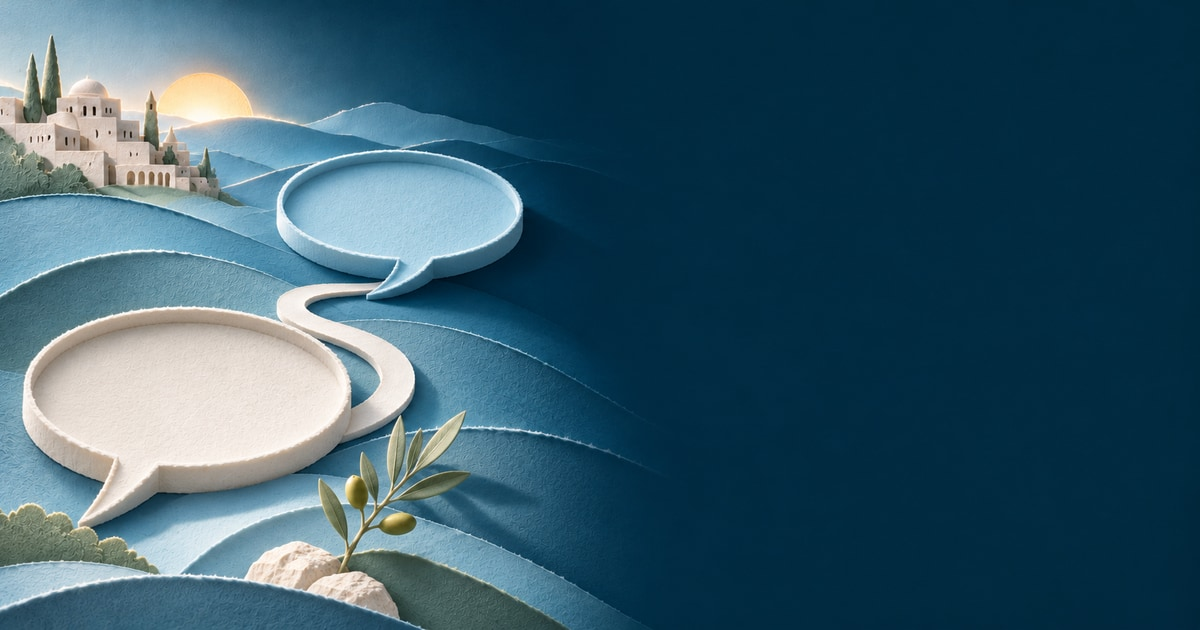
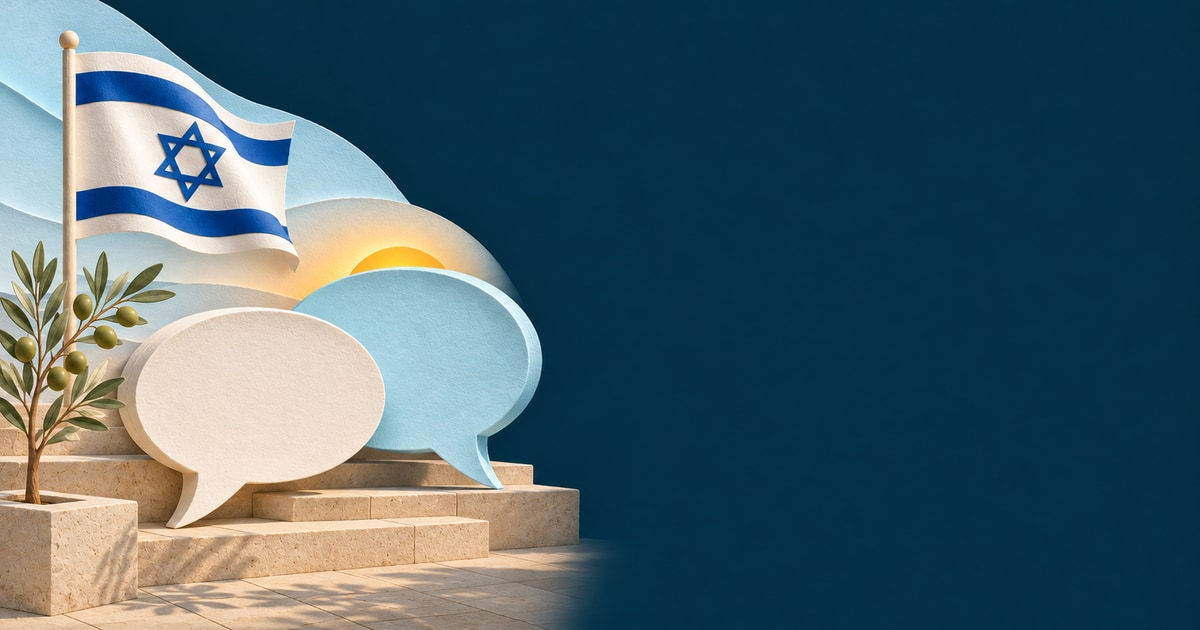
feat: make social preview artwork distinctly Israeli

diff --git a/lib/seo.ts b/lib/seo.ts
@@ -18,7 +18,7 @@ export function buildPageMetadata(
     ? process.env.VERCEL_BRANCH_URL || process.env.VERCEL_URL
     : undefined;
   const socialOrigin = previewHost ? `https://${previewHost}` : SITE_ORIGIN;
-  const imageUrl = `${socialOrigin}/og?locale=${locale}&route=${route}&v=2`;
+  const imageUrl = `${socialOrigin}/og?locale=${locale}&route=${route}&v=3`;
   const imageAlt = `${dict.routeLabels[route]} | ${dict.brand.name}`;
 
   return {

diff --git a/assets/og/README.md b/assets/og/README.md
@@ -1,106 +1,112 @@
 # Open Graph artwork
 
-Twelve page-specific illustrations generated with the built-in image generation tool on 2026-11-04. Each final JPEG is 1200 × 630, optimized for the server-rendered covers at `/og?locale=he|en&route=<route>&v=2`. The original brand mark from `public/images/logo-mark.png` and the text are added by `app/og/route.tsx`; neither is redrawn by the image model. Hebrew and English copy lives in `lib/og-copy.ts`.
+Version 3: twelve distinct illustrations generated with the built-in image-generation tool on 2026-11-04. This revision uses recognizable Israeli flags, Negev and Galilee landscapes, local plants, modern Tel Aviv architecture and Jerusalem limestone. The generic historic-village backdrop from version 2 has been replaced throughout the set.
 
-The Regular and Bold Heebo faces are static instances of the repository's existing `app/(staff)/fonts/Heebo-variable.ttf` at weights 400 and 700. Its original OFL license is included. Static faces avoid variable-font parsing differences in the social image renderer.
+Each optimized JPEG is 1200 × 630. `app/og/route.tsx` adds the unchanged original logo from `public/images/logo-mark.png` and the Heebo typography. No generated logo or AI lettering is used. Hebrew and English copy lives in `lib/og-copy.ts`, producing 24 localized covers.
+
+Social-image URLs include `&v=3` so social crawlers fetch the revised artwork. Preview metadata uses the branch URL; production uses the official domain. SEO canonicals and language alternates stay on the official domain.
+
+The Regular and Bold Heebo faces are static instances of the existing `app/(staff)/fonts/Heebo-variable.ttf` at weights 400 and 700, with its original OFL license included.
 
 ## Prompt set
 
-Shared generation prompt (followed by the page-specific scene below):
+Shared prompt, followed by the page-specific scene:
 
 ```text
 Use case: ads-marketing.
-Asset type: text-free editorial artwork for a 1200x630 Open Graph cover, landscape 1.905:1.
-Primary request: a beautiful premium art-directed cover illustration for Service with Meaning, an Israeli nonprofit helping young women find values, identity, community and meaningful service.
-Style/medium: sophisticated tactile layered paper sculpture and matte ceramic architectural miniature, photographed as a real museum-quality set. Precise cut edges, rich physical depth, tiny paper fibers, soft directional studio light and delicate shadows, elegant atmospheric perspective. Quiet, poetic, optimistic, contemporary Israeli visual identity. Professional visual campaign, not stock clip art.
-Color palette: deep midnight petrol #102d40 background, stone-white #f6f5ee, icy sky blue #b8e5f5, muted sage green #98baa8 and a tiny warm pale gold sun. Blue and white should dominate.
-Composition: landscape 1.905:1. Sculptural subject and detail concentrated in LEFT 50 percent; RIGHT 45 percent is uninterrupted very dark petrol negative space for a large title to be added later. Subject occupies almost full height on the left with breathing space above and below. Rich shadows fade seamlessly into the dark right. Full bleed, no border, no frame, no card UI.
-Constraints: absolutely no text, no lettering, no numbers, no logos, no watermark, no human figures, no military equipment. No glossy plastic, no cartoon aesthetic, no neon, no floating interface elements, no generic gradient blobs. Do not create a collage or contact sheet. Generate ONE finished landscape artwork.
+Asset type: text-free editorial background for a 1200x630 Open Graph cover, landscape 1.905:1.
+Primary request: sophisticated, unmistakably contemporary ISRAELI visual identity for Service with Meaning, an Israeli nonprofit preparing young women for meaningful service, values, belonging and community.
+Style/medium: premium tactile layered paper sculpture and matte ceramic miniatures photographed as a real art-directed studio set. Precise cut paper edges, physical depth, restrained paper fibers, graceful dimensional curves, soft directional light, delicate realistic shadows. Calm, hopeful, designed for an Israeli educational nonprofit.
+Color palette: midnight petrol #102d40, stone-white #f6f5ee, ice blue #b8e5f5, Israeli flag royal blue #1c61ad, muted sage olive green #98baa8 and a little warm sunrise gold.
+Composition: landscape 1.905:1. Main scene and all meaningful objects concentrated in LEFT 43 percent, with dimensional foreground forms. RIGHT 52 percent must be clean uninterrupted midnight petrol negative space for separately rendered typography. Leave the upper right empty. Full bleed; no frame or collage.
+Israeli identity: include a clearly recognizable, beautifully folded ISRAELI NATIONAL FLAG on a fine flagpole within the LEFT part of the scene. It must be big enough to recognize at thumbnail scale: WHITE field with exactly TWO horizontal royal-blue stripes and ONE centered BLUE SIX-POINTED STAR OF DAVID made from two overlapping triangles. Accurate national flag, never a five-point star, never a crescent. Flag should look like fine folded paper. Use modern Israeli places and local natural textures described in the subject.
+Architectural constraints: no domes, no minarets, no crescent motifs, no generic medieval walled village, no clustered old-town houses or palace architecture. If architecture is requested it must be specifically contemporary Israeli modernism. Do not substitute an old Mediterranean village for a modern Israeli place.
+Constraints: no lettering, no words, no numbers, no brand logos, no watermark, no human figures or military equipment. The real brand logo and Hebrew/English text will be added later by code. No neon, glossy plastic, clip-art icons, or floating interface UI. Generate ONE finished landscape artwork.
 Scene/subject: <page-specific scene>
 ```
 
-The home artwork was generated first. All subsequent images used that artwork as a style reference with this additional instruction:
+The home illustration was generated first, without a reference image. The other eleven used the new home artwork as a material and layout reference, with this added instruction:
 
 ```text
-Reference image role: style reference only. Match its tactile paper material, visual depth, blue-and-white palette, landscape aspect ratio and dark right-side negative space. Replace its entire subject with the subject specified above.
+Reference image role: material, palette, Israeli flag accuracy and left-subject/right-negative-space layout reference ONLY. Replace the entire subject with the page-specific subject above. Do not copy the reference's Negev desert, cactus or winding trail unless the scene explicitly asks for them. The subject requested for this page must be the clear primary visual.
 ```
 
 ### home
 
 `artwork/home.jpg`
 
-A luminous white winding paper pathway flowing from the lower left foreground through sculpted blue Israeli desert hills toward a small warm sunrise on the upper left horizon. A delicate olive sprout grows beside the path. Landscape feels expansive, hopeful and inviting, a journey of purpose. Strong dimensional foreground curves.
+An unmistakable MAKHTESH RAMON / NEGEV landscape: broad layered sandstone escarpments with flat mesa tops, a deep open desert basin and a luminous winding white path leading from lower-left foreground toward the dawn horizon. A modest Israeli flag on a pole stands beside the trail on the left ridge, silhouetted clearly against pale sky. A sculptural olive sprig and a small sabra prickly-pear plant grow beside the foreground path. No buildings at all. Distinctive Israeli desert geology, not rolling fantasy hills.
 
 ### about
 
 `artwork/about.jpg`
 
-A single elegant young olive tree with five pale sage leaves, rooted in layered white and blue limestone terrain. Visible finely crafted paper roots below connect three terraced strata, suggesting values and identity. An architectural oval opening behind reveals pale sky. Tree occupies left-center and is beautifully lit.
+A graceful olive tree with visible interconnected paper roots growing from sculptural strata of Jerusalem limestone. Behind the tree, a simple upright limestone panel carries an elegant shallow relief of a SEVEN-BRANCHED MENORAH (central stem plus three curved branches on each side), evoking the Israeli state emblem without text. An Israeli flag on a fine pole beside the panel. Modern civic sculpture and rooted Israeli identity; no buildings or arches.
 
 ### lectures
 
 `artwork/lectures.jpg`
 
-An intimate sculptural open-air amphitheatre carved from nested ivory paper semicircles in blue hills. At its center a simple pale lectern; three large delicate sculptural blue arcs carry a voice upward and outward. No audience or people. Beautiful editorial visualization of a conversation that resonates.
+A contemporary Israeli open-air amphitheatre built from layered ivory paper semicircles, inspired by modern campus and kibbutz cultural spaces, with a simple square podium and three sculptural sky-blue arcs suggesting a voice spreading outward. An Israeli flag stands prominently beside the podium. A few sculptural Aleppo pines and a modern flat-roofed white campus structure at far left rear; no historical architecture.
 
 ### guidance
 
 `artwork/guidance.jpg`
 
-Two beautifully sculpted parallel winding paths through deep blue limestone hills, one ivory and one sky blue, coming together toward a softly glowing circular opening on the upper left. A small sage olive branch nearby. Intimate supportive landscape suggesting a mentor accompanying someone.
+Two parallel winding trails, ivory and light blue, crossing the rounded green-blue GALILEE hills toward a glimpse of the SEA OF GALILEE in the left background. An Israeli flag marks a safe meeting point on a left ridge. In the foreground a small stone trail marker has the simple orange-blue-white Israel National Trail color bands with NO text, plus a delicate olive branch. Welcoming landscape of accompaniment and finding one's own Israeli path. No buildings, portals or arches.
 
 ### team
 
 `artwork/team.jpg`
 
-A grove of five graceful olive saplings of different heights made from ivory stems and pale sage paper leaves. They stand together on a single sculptural oval terraced island of pale limestone and blue paper, their roots subtly woven together along the front. Elegant collective growth and human connection, not a real staff portrait.
+Five graceful olive saplings of different heights with interwoven roots on a shared oval terraced island of pale limestone. Behind them, neat agricultural orchard rows and one clean cylindrical modern kibbutz water tower, with an Israeli flag on a pole to the left of the grove. A rooted Israeli community and shared purpose. No houses or domes.
 
 ### getInvolved
 
 `artwork/getInvolved.jpg`
 
-Two elegant interlocking open palm forms sculpted from matte ivory paper, cradling a single lush sage olive sprout above blue terraced earth. Hands are abstract simple sculpture with natural anatomy and broad soft folds, no people. Giving, community, generosity; museum-quality public-interest campaign artwork.
+Two elegant abstract open palm sculptures made from layered ivory paper gently cradle a sage olive sapling growing from a small lump of Israeli limestone soil. An Israeli flag is planted in the soil to the left of the sapling, visibly recognizable but subordinate to the plant. Behind the hands are quiet geometric agricultural terraces suggesting an Israeli community garden. Generosity and local community, not a place of worship. No buildings.
 
 ### videos
 
 `artwork/videos.jpg`
 
-A beautiful freestanding ivory architectural screen or portal standing in layered deep blue hills, with a triangular play-shaped opening cut through its solid face. Through the triangular opening one sees a softly glowing pale golden horizon. Sculptural frame casts long physical shadow; restrained cinematic storytelling.
+A freestanding clean ivory sculptural screen with a triangular PLAY-shaped opening, standing on a modern TEL AVIV seaside promenade with Mediterranean paper-blue sea layers and two restrained palm trees. On the far left behind the screen, a simplified Tel Aviv Bauhaus building has crisp white FLAT ROOFS, rectangular windows and a rounded horizontal balcony, plus a clearly recognizable Israeli flag. Modern Israeli culture and storytelling, not a historic town.
 
 ### faq
 
 `artwork/faq.jpg`
 
-Two dimensional speech bubble sculptures, one matte ivory and one ice blue, nested into flowing blue paper landscape terraces. Their interiors are blank and their rounded silhouette and cut-paper tail are clean and sophisticated. A narrow white path connects them, evoking thoughtful questions and clear conversation.
+Two large dimensional sculptural speech bubbles, one ivory and one ice blue, resting above clean Jerusalem limestone steps and a winding connection between them. An Israeli flag stands behind the bubbles at far left. A modern quiet civic plaza with a sparse olive sapling, broad rectangular cut stones and crisp square edges. The bubbles are blank inside. No arches, no buildings and no old-town silhouette.
 
 ### contact
 
 `artwork/contact.jpg`
 
-Two folded ribbon-like arcs, one ivory and one pale blue, extend from opposite sides of a tiny sculpted blue valley and meet into a flowing bridge on the left. A single sage olive leaf rests at their meeting point. Sculptural warmth and openness, connection and a conversation starting. No electronics or UI.
+Two sculptural ribbon-like arcs, one ivory and one ice blue, meet to form a flowing bridge on the left. Behind them a miniature contemporary TEL AVIV skyline has three unmistakable simplified AZRIELI shapes: a circular tower, a triangular tower, and a square tower, with subtle clean horizontal floor lines. An Israeli flag on a slim pole and a little Mediterranean waterfront. Clear modern Israeli connection and openness, never historic village architecture.
 
 ### terms
 
 `artwork/terms.jpg`
 
-An open blank book sculpted from several elegant flowing ivory paper layers rests on a low stepped blue limestone plinth. Its blank pages gently fan upward in an architectural form. A tiny olive branch at its base. The book is the unmistakable main subject, suggesting clarity and transparent terms.
+An open blank book sculpted from elegant ivory paper layers on a low Jerusalem limestone plinth. In the left rear background, a restrained modern KNESSET-inspired building: one VERY BROAD FLAT horizontal roof supported by a row of straight slim rectangular columns, modern 1960s civic architecture, never a classical temple. A clearly recognizable Israeli flag stands beside the building. Transparency and clear public information, no lettering anywhere.
 
 ### privacy
 
 `artwork/privacy.jpg`
 
-A delicate young sage olive sprout safely sheltered underneath a beautifully sculpted thick ivory protective arch, with two nested pale blue arch layers behind. Ground is calm layered blue paper. Strong visual idea of care, privacy and safeguarding, not cyber-security or technology. Soft intimate light.
+A young sage olive sprout sheltered inside a crisp angular hexagonal white paper enclosure, with nested pale-blue protective angular layers behind. Beside it on the left, a carefully folded recognizable Israeli flag on a fine pole. The enclosure rests on broad Jerusalem limestone strata. Quiet care and privacy in an Israeli civic design language. NO rounded arches, no domes, no computers, no locks or cyber imagery.
 
 ### accessibility
 
 `artwork/accessibility.jpg`
 
-An elegant wide continuous ivory ramp gently curves through three blue terraced landscape levels toward an open luminous architectural doorway on the upper left. No stairs on the ramp, no barriers, no figures. Small pale sage plant at base. Welcoming universal access, openness and independent movement, beautifully sculpted paper architecture.
+A wide continuous ivory accessible ramp gently curves through blue and pale Jerusalem-limestone landscape terraces toward a LARGE OPEN RECTANGULAR DOORWAY in a crisp contemporary Israeli white campus wall. Thin flat roof canopy, clear square geometry, no arches. An Israeli flag beside the entrance and a small native olive plant near the ramp. No stairs along the ramp or barriers. Welcoming modern Israeli public space and equal access.
 
 ## Validation
 
-`npm run validate:seo` checks the metadata, localized alt text, and 24 distinct 1200 × 630 PNG covers under 1.5 MB. The route's font and artwork files are explicitly included in Next.js output tracing for deployment.
+Run `npm run test:seo`, `npm run lint`, and `npm run build`. For a hosted deployment, run `SEO_BASE_URL=<branch-or-production-origin> npm run validate:seo`. The validator follows each page's advertised image URL and checks 24 distinct 1200 × 630 PNG covers below 1.5 MB. If validating an immutable deployment URL, set `SEO_SOCIAL_ORIGIN` to its branch alias. For local checks the image origin is substituted with the local server.
 
-Review sheets are saved in `artifacts/og-preview-2026-11-04/`. Production build, repository ESLint, all 24 localized SEO checks against `next start`, fallback requests, and the 15 required traced assets passed on 2026-11-04. Visual review confirmed Hebrew order, line fit and English contrast.
+Review sheets are in `artifacts/og-preview-2026-11-04/`. The route's 12 artwork files, two fonts and original logo are explicitly included in Next.js output tracing.
 
-The contrast overlay needs explicit `top`, `left`, `width` and `height`: this ImageResponse renderer ignores the `inset` shorthand. The cover's text area must remain dark even when pale artwork extends behind it.
+The contrast overlay needs explicit `top`, `left`, `width` and `height`: this ImageResponse renderer ignores the `inset` shorthand. Text must remain legible when artwork reaches the text area.
